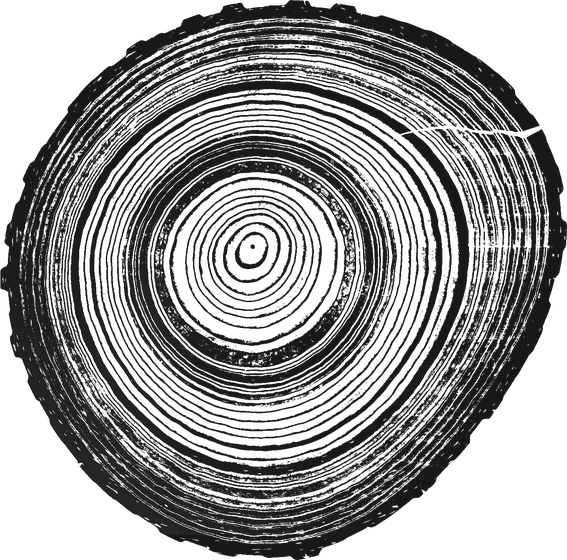
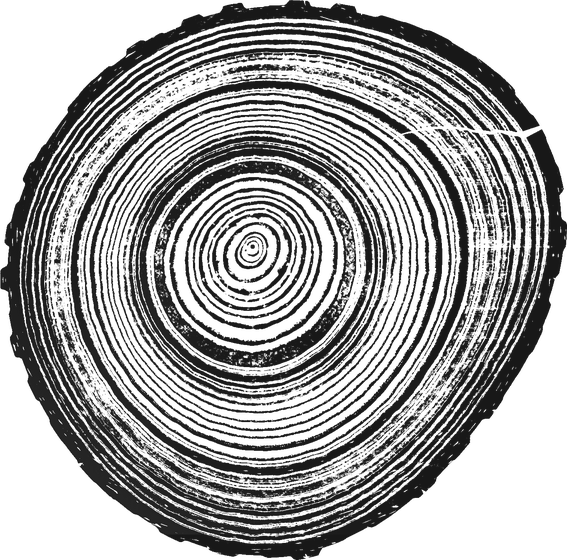
Pine pressed from real Scots pine cores; tracing and conifer ink scripts
Claude-Session: https://claude.ai/code/session_01WhGxUDQ2nhT1B8pKnZrdq5

Changed region(s): [[0.03, 0.0304, 0.9894, 0.9714]]

diff --git a/src/rings/press.ts b/src/rings/press.ts
@@ -1831,10 +1831,10 @@ function printYears(v: View, oak: Years | null): void {
         const tight = r < runR[i] ? Math.ceil(Math.log2(runR[i] / Math.max(1, r))) : 0;
         const L = oak.levels[Math.min(oak.levels.length - 1, lvl[i] + tight + (heart ? 3 : 0))], rows = L.rows;
         const wob = (0.09 * Math.sin(2 * a + i * 1.7) + 0.06 * Math.sin(3 * a + i * 2.9 + 1) + 0.04 * Math.sin(5 * a + i * 0.6)) * W0;
-        // (Its springwood opened toward the paper, its latewood kept heavy: the year reads as a band, as the
-        // other woods' do, never a field of charcoal.)
         ink = sample(L, (((a / TAU) * reps[i] * W0 + off[i] + wob * reps[i] * 0.15) * L.w) / W0, year * rows + across * rows, year * rows, rows);
-        ink = Math.pow(ink, 1 + 1.2 * (1 - smooth((across - 0.35) / 0.45))) * tone(i);
+        // (Oak's and ash's springwood opened toward the paper, their latewood kept heavy: the year reads as a band,
+        // never a field of charcoal. A conifer's scanned year is already pale in its earlywood.)
+        ink = (fam() === 'ring' ? Math.pow(ink, 1 + 1.2 * (1 - smooth((across - 0.35) / 0.45))) : ink) * tone(i);
       } else ink = drawnInk(i, a, r, across, heart, rout - rin, dx, dy) * tone(i);
       if (!heart && thin[i] > 0) {
         // (As dark as the wide years: lines as wide as some three-fifths of the space they stand for.)
@@ -1875,7 +1875,7 @@ async function yearPrint(): Promise<HTMLCanvasElement> {
 }
 
 /** The real wood's years, pressed from a scan (see printYears): oak's and ash's, once loaded. */
-const realYears = () => (fam() === 'ring' ? wood.years[kind] : undefined);
+const realYears = () => wood.years[kind];
 
 /**
  * The ink's grain: printed from wood, ink lies in the grain's fine streaks along each ring, heavier and

diff --git a/src/rings/wood.ts b/src/rings/wood.ts
@@ -14,6 +14,7 @@ const URLS = {
   oak: new URL('./wood/red-oak-years.png', import.meta.url).href,
   pine: new URL('./wood/red-pine-fibre.png', import.meta.url).href,
   ash: new URL('./wood/white-ash-years.png', import.meta.url).href,
+  pineYears: new URL('./wood/scots-pine-years.png', import.meta.url).href,
   cherry: new URL('./wood/black-cherry-fibre.png', import.meta.url).href,
   maple: new URL('./wood/bigleaf-maple-fibre.png', import.meta.url).href,
   birch: new URL('./wood/paper-birch-fibre.png', import.meta.url).href,
@@ -80,7 +81,7 @@ export function loadWood(then: () => void): void {
     if (as === 'oak') wood.oak = wood.years.oak;
     then();
   }).catch(() => {});
-  years(URLS.oak, 'oak'); years(URLS.ash, 'ash');
+  years(URLS.oak, 'oak'); years(URLS.ash, 'ash'); years(URLS.pineYears, 'pine');
   // (The fibre of each wood whose years are drawn; bristlecone and olive, with no section to hand, take
   // their nearest kin's: a red pine's, a cherry's.)
   const fibre = (url: string, ...as: string[]) => pixels(url).then((l) => { for (const k of as) wood.fibre[k] = l; then(); }).catch(() => {});

diff --git a/scripts/wood/trace.py b/scripts/wood/trace.py
@@ -1,0 +1,58 @@
+# Trace ring boundaries in an unrolled section (rings run across, outward is down) as smooth paths, then
+# straighten each year into YR rows. Usage: trace.py src out [MINSP] [top] [YR] [PEN] [OFF]: MINSP the least
+# rows between edges, top the rows to skip, PEN how stiffly a path keeps its line, OFF how many rows earlier to
+# put each edge (the blur sets it a little late).
+import sys, numpy as np
+from PIL import Image, ImageFilter
+src,out=sys.argv[1],sys.argv[2]
+PEN=float(sys.argv[6]) if len(sys.argv)>6 else 0.6
+OFF=float(sys.argv[7]) if len(sys.argv)>7 else 0
+MINSP=int(sys.argv[3]) if len(sys.argv)>3 else 16
+TOP=int(sys.argv[4]) if len(sys.argv)>4 else 0
+YR=int(sys.argv[5]) if len(sys.argv)>5 else 112
+im=Image.open(src).convert('RGB')
+a=np.asarray(im,dtype=np.float32).mean(2)
+b=np.asarray(Image.fromarray(a.astype(np.uint8)).filter(ImageFilter.BoxBlur(2)),dtype=np.float32)
+h,w=a.shape
+# Edge: going outward, dark latewood gives way to light earlywood.
+E=np.zeros_like(b); E[1:-1]=b[2:]-b[:-2]
+# smooth along the ring
+k=9; ker=np.ones(k)/k
+E=np.apply_along_axis(lambda r: np.convolve(r,ker,mode='same'),1,E)
+g=E.mean(1); g=np.convolve(g,np.ones(5)/5,mode='same')
+cand=[i for i in range(max(3,TOP),h-3) if g[i]==g[i-3:i+4].max() and g[i]>0]
+cand.sort(key=lambda i:-g[i]); sel=[]
+for i in cand:
+  if all(abs(i-j)>MINSP for j in sel): sel.append(i)
+thr=np.median([g[i] for i in sel[:30]])*0.3
+sel=sorted(i for i in sel if g[i]>thr)
+# DP each boundary within a band about its guess, slope at most 1 px a column, penalised.
+paths=[]
+for n,y0 in enumerate(sel):
+  lo=y0-(y0-sel[n-1])*0.45 if n else max(0,y0-MINSP); hi=y0+(sel[n+1]-y0)*0.45 if n+1<len(sel) else min(h-1,y0+MINSP)
+  ys=np.arange(int(lo),int(hi)+1); m=len(ys)
+  cost=np.zeros((w,m)); back=np.zeros((w,m),dtype=int)
+  cost[0]=-E[ys,0]
+  for x in range(1,w):
+    best=np.full(m,1e9); arg=np.zeros(m,dtype=int)
+    for d in (-1,0,1):
+      prev=np.roll(cost[x-1],d)+PEN*abs(d)
+      if d==1: prev[0]=1e9
+      if d==-1: prev[-1]=1e9
+      better=prev<best; best[better]=prev[better]; arg[better]=(np.arange(m)-d)[better]
+    cost[x]=best-E[ys,x]; back[x]=arg
+  j=int(np.argmin(cost[-1])); p=np.zeros(w)
+  for x in range(w-1,-1,-1): p[x]=ys[j]; j=back[x,j]
+  paths.append(np.convolve(np.pad(p,(4,4),mode='edge'),np.ones(9)/9,mode='valid'))
+P=np.array(paths)
+for i in range(1,len(P)): P[i]=np.maximum(P[i],P[i-1]+3)
+P=P-OFF
+np.save(out+'.npy',P)
+xs=np.arange(w); res=[]
+for i in range(len(P)-1):
+  top,bot=P[i],P[i+1]; t=(np.arange(YR)+0.5)/YR
+  Y=top[None,:]+(bot-top)[None,:]*t[:,None]; yi=np.clip(Y,0,h-1.001); f=yi-np.floor(yi); yl=np.floor(yi).astype(int)
+  res.append(a[yl,xs[None,:]]*(1-f)+a[yl+1,xs[None,:]]*f)
+R=np.concatenate(res,0)
+Image.fromarray(np.clip(R,0,255).astype(np.uint8)).save(out+'.png')
+print(out,'years',len(P)-1,'spacing',np.diff(sel).tolist())

diff --git a/scripts/wood/inkmap.py b/scripts/wood/inkmap.py
@@ -21,6 +21,12 @@ for y in range(N):
         ray=np.clip((Ly-1.1*med)/(0.14*med),0,1)
         tex=np.clip(1+0.15*(med-Lby)/med,0.9,1.06)
         ink[s]=base*tex*(1-pore)*(1-0.3*ray)
+    elif kind=='conifer':
+        # (A conifer's year: its pale earlywood barely takes the ink; only as it darkens into the latewood
+        # does the ink come, heaviest at the year's end: darkness measured from the year's own earlywood.)
+        early,dark=np.percentile(Lby,75),np.percentile(Lby,3)
+        t=np.clip((early-Ly)/(early-dark+1e-3),0,1)
+        ink[s]=np.clip(0.08+0.97*t**1.25,0,1)
     else:
         # darkness relative to the year's range: latewood takes the ink
         lo,hi=np.percentile(Ly,3),np.percentile(Ly,97)

diff --git a/scripts/wood/pinecores.py b/scripts/wood/pinecores.py
@@ -1,0 +1,9 @@
+# The pine cores: each core's middle band, turned so the pith is at the top and the rings run across.
+import sys
+from PIL import Image
+src,k=sys.argv[1],float(sys.argv[2])
+im=Image.open(src).convert('RGB')
+for n,(y0,y1) in enumerate([(12,60),(88,138)]):
+  c=im.crop((int(30*k),int(y0*k),im.width-int(4*k),int(y1*k))).rotate(90,expand=True)
+  # (rotate 90: the core's right end, the pith (the sharp edges show outward runs right to left), goes to the top)
+  c.save(f'pine-core{n}.png'); print(c.size)

diff --git a/README.md b/README.md
@@ -376,7 +376,7 @@ Locally, run `npm run dev` and open `/volcano.html`. The simulation (`src/volcan
 
 `press.html` (`src/rings/`) is a daily practice; Atlas Minor and Warm to the Touch are untouched by it. You grow one tree, a ring a day: **draw one calm loop round the slice of its trunk, and it's pressed into the wood as that day's year.** It learns from the practice of drawing one circle a day (the Zen ensō). Nothing can go wrong, and nothing is counted: no score, no streak, no dates. It's meant to be calm, and everything in it is judged by that. (It was called Annulus; saves keep the `annulus` names.) How it got here is in [RINGS-HISTORY.md](RINGS-HISTORY.md); how it's drawn, in [RINGS-STYLE.md](RINGS-STYLE.md).
 
-**The look.** A relief print of real wood: the slice is inked and pressed, as in a tree-ring print, heavy black ink on warm paper, the paper's tooth over everything. Oak's and ash's years are pressed from scans of real sawn wood (`wood.ts`, `printYears`); the other seven woods' are built as each kind's are (`ANATOMY`): a light, speckled earlywood carrying its real fibre (from Hough's plates), darkening into the latewood and a crisp edge, with its fine rays and its pores where the kind has them, pressed pixel by pixel the same way. The ink takes unevenly, as a pressed block does (`inkGrain`, after a Munch woodcut's grain). The block leaves a faint press mark along the slice's outer edge (`markOf`). At rest the slice breathes, swelling by a sixtieth and settling.
+**The look.** A relief print of real wood: the slice is inked and pressed, as in a tree-ring print, heavy black ink on warm paper, the paper's tooth over everything. Oak's, ash's and pine's years are pressed from scans of real wood (`wood.ts`, `printYears`; see `src/rings/wood/CREDITS.md`); the other six woods' are built as each kind's are (`ANATOMY`): a light, speckled earlywood carrying its real fibre (from Hough's plates), darkening into the latewood and a crisp edge, with its fine rays and its pores where the kind has them, pressed pixel by pixel the same way. The ink takes unevenly, as a pressed block does (`inkGrain`, after a Munch woodcut's grain). The block leaves a faint press mark along the slice's outer edge (`markOf`). At rest the slice breathes, swelling by a sixtieth and settling.
 
 **Drawing a ring.** Touch anywhere round the slice and draw. The line is a brush, wet when unhurried, dry when quick, and evaporates behind the hand. Close the loop (or come within a short way of where it began) and the ring is laid; let go short and it rests, to be taken up again. Where it's drawn is the year's edge: a wide loop a wide year. The bark is the same size on the sheet every day, so the day's loop is drawn in the same place; the years before tighten in toward the heart.
 * **Knots and burls.** Hold the brush still a moment on the loop and a branch begins there: a knot, the branch cut across, its own few rings with the trunk's swept round it, grown over once left. Scribble back and forth and the wood burls: the rings swell and swirl round dark bud specks. Both are made of the rings themselves, pulled about where they lie (`markSwell`, `warpMarks`).

diff --git a/src/rings/wood/CREDITS.md b/src/rings/wood/CREDITS.md
@@ -15,6 +15,7 @@ public domain; scanned by the University of California Libraries for the
 | `giant-sequoia-fibre.png` | No. 142, *Sequoia gigantea*, big tree, radial section turned to run round (Part VI) | n110 |
 | `bigleaf-maple-fibre.png` | No. 152, *Acer macrophyllum*, broad-leaved maple, transverse section (Part VII) | n126 |
 
+
 (Parts II, VI and VII from the same Internet Archive collection of Hough's volumes.) The giant sequoia
 stands in for the coast redwood, its close kin. The bristlecone and the olive have no section here (no
 openly licensed one could be had): the bristlecone takes the red pine's fibre, the olive the cherry's,
@@ -25,7 +26,7 @@ are unrolled straight about it (`unroll.py`); for the oak, each year is traced a
 pores and straightened into a strip 112 px deep (`years.py`), then turned into ink as a slice of it
 would print (`inkmap.py`): the pores and rays open (paper), the latewood heavy, the springwood lighter,
 tiling round; the ash the same (16 of its years; one lost to the pore tracing). The pine's rings were too faint in the scan to trace, so only its fibre is kept, its
-ring-lines taken out (`fibre.py`); its years are still drawn. The cherry, maple, birch and sequoia
+ring-lines taken out (`fibre.py`); its years now come from Scots pine cores (below). The cherry, maple, birch and sequoia
 the same (`boxcut.py` cuts the tallest clean strip of a plate): their rings too faint to trace, their
 fibre kept, their years drawn.
 
@@ -64,4 +65,19 @@ Public domain.
 | `olive.png` | *Olea europaea*, the fruit on its stalk (fig. f) | Duhamel du Monceau, *Traité des arbres et arbustes*, vol. 2 (1755), the Olea headpiece, p. 57 (BIU Santé scan, Internet Archive) |
 
 (Sargent's volumes are the Missouri Botanical Garden's scans on the Internet Archive.)
+
+**Scots pine's years** (`scots-pine-years.png`): not from Hough. Two sanded increment cores of living Scots pines (*Pinus
+sylvestris*) in Dalarna, Sweden, photographed by T. Axelson and released into the public domain
+([Wikimedia Commons, `PinusSylvestrisWoodsamle.jpg`](https://commons.wikimedia.org/wiki/File:PinusSylvestrisWoodsamle.jpg),
+fetched as Commons' 1920 px rendering). Each core's middle band was cut and turned so its pith is at the top (the sharp
+latewood-to-earlywood edges show which end that is; `pinecores.py`); each year's edge traced as a smooth path along
+it (`trace.py`, `pine-coreN.png out 14 0 112 3 1`); years far narrower or wider than the core's usual kept out
+(missed or doubled edges); and turned into ink as a conifer's year prints, its pale earlywood barely inked, the ink
+coming as it darkens into the latewood (`inkmap.py … conifer 29 112`). 103 years. Bristlecone keeps the red pine's
+fibre and its drawn years.
+
+Tried and not used: Agnieszka Kwiecień's cross-sections at the Wrocław University botanic garden (CC BY-SA 4.0) of
+mahaleb cherry, bird cherry, Norway maple and silver birch. Their rings show from a distance, but too faintly against
+the grain, at the resolution to hand, to trace into clean years; those woods keep their years drawn from their
+anatomy (`ANATOMY` in `press.ts`).
 

diff --git a/RINGS-HISTORY.md b/RINGS-HISTORY.md
@@ -160,3 +160,5 @@ Still to come (`trees.ts`): a redwood with fires, a bristlecone with drought, a 
 **Knots and burls in the opening** (since October 17). A knot's rings and a burl's specks and tangle are measured in the screen's pixels as the slice is looked into; the opening presses the wood far larger than it's shown, at its own scale, so they came out a fraction of their size there (a knot a dot, a burl nearly gone). Now they're pressed as much larger as the wood is (`markK`).
 
 **The drawn woods as wood, not a carved block** (since October 17). The seven woods without scanned years were drawn as solid black bands, most of each ring inked, with smooth knife-cut edges and white streaks through them: a carved block, not wood. Now each is pressed pixel by pixel as oak's and ash's real years are (`printYears` without a scan), each year built as its kind's is (`ANATOMY`): a light earlywood printing as a speckled tone, with its real fibre streaking along it; darkening into the latewood (a conifer's wider for an unhurried day); a crisp line at its edge; fine rays (cherry, maple, olive); pores in the wood's own place (cherry's gathered at the year's start); the olive's dark mottle. The choosing slices pressed again with it.
+
+**Real pine** (since October 17). Pine's years are pressed from real wood: two sanded increment cores of Scots pine (public domain, T. Axelson), each year traced along its edge (`scripts/wood/trace.py`, `pinecores.py`) and inked as a conifer's year prints (`inkmap.py`'s `conifer`). Openly licensed photographs of cherry, maple and birch sections were tried too, but their rings were too faint against the grain to trace cleanly; they keep their years built from their anatomy.
